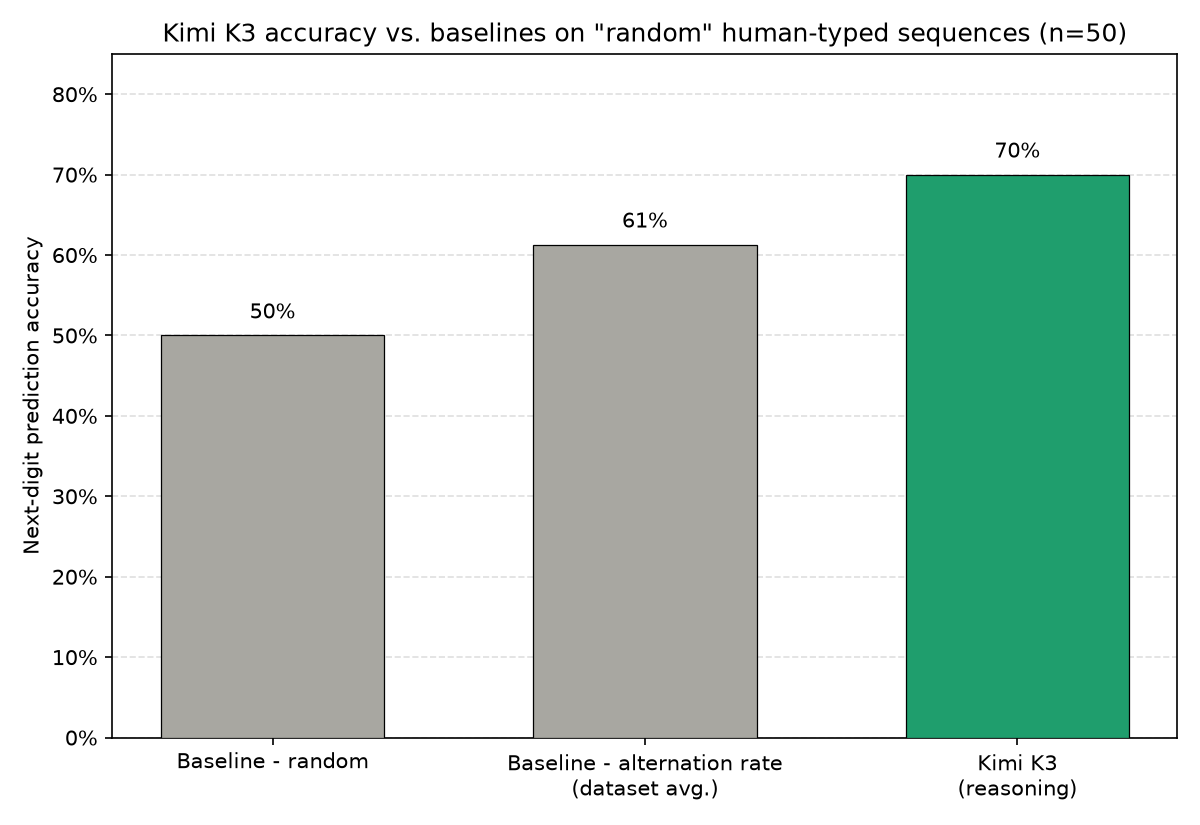
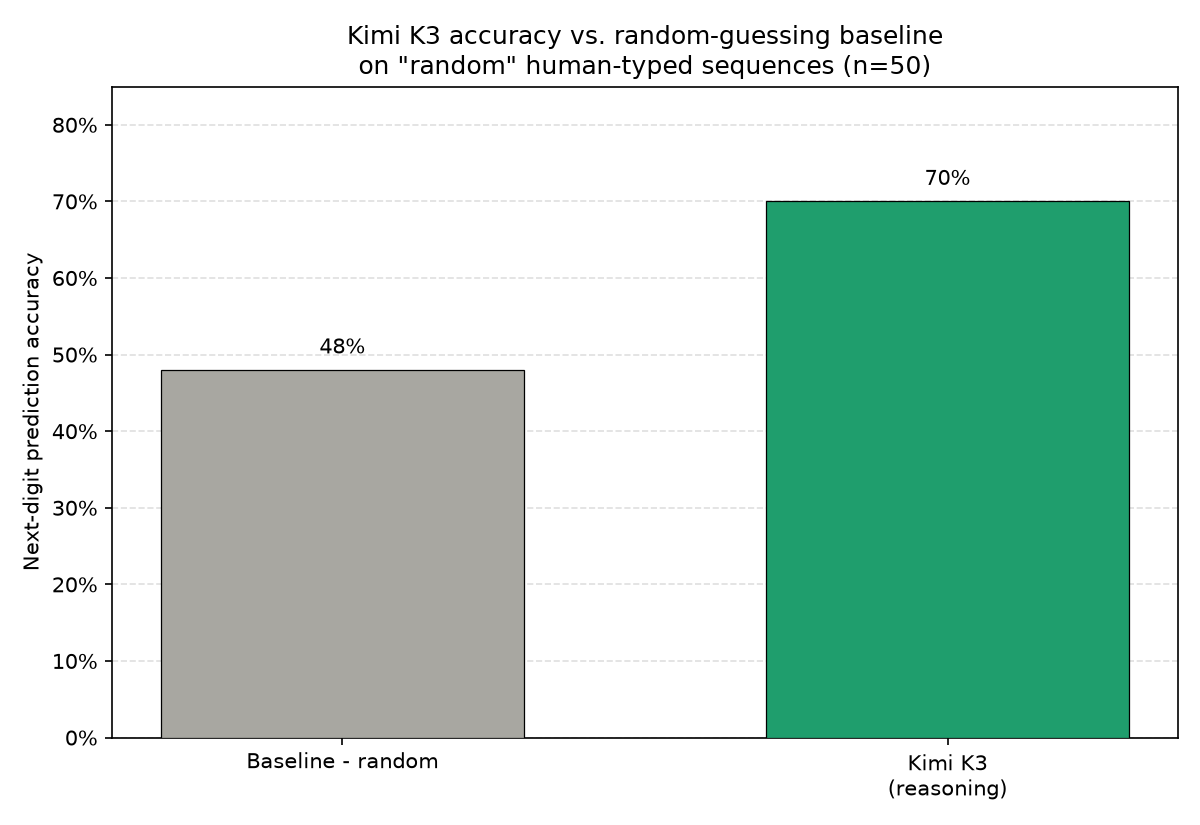
FT: minor revisions to audit schedules article (maths, random baseline

diff --git a/predicting-audit-schedules.html b/predicting-audit-schedules.html
@@ -33,7 +33,7 @@
 
   <p>In this post I set out to answer the following questions:</p>
   <ol>
-    <li>Why is it so important our audits remain unpredictable?</li>
+    <li>Why do we want our audits to be unpredictable?</li>
     <li>Up to what level of schedule complexity can current models predict audits?</li>
     <li>How good are models at predicting "human-random" schedules?</li>
   </ol>
@@ -52,32 +52,32 @@
 
   <p>Such a strategy only succeeds if audits are indeed unpredictable. However, humans are famously creatures of habits and heuristics, struggling to generate or behave according to true randomness (see random sequence generation literature in psychology &amp; economics, e.g., Wagenaar, W. A. 1972, Kahnemann &amp; Tversky 1974). This poses challenges in contexts where agents receive a greater reward for selecting misaligned actions than aligned ones, as agents can exploit this learnable structure to better predict when audits will happen, and so adjust their behaviour depending on audit probability.</p>
 
-  <p>More rigorously, let us study a game where 2 players \(\{\text{principal}, \text{agent}\}\) take turns. Each round, the agent picks an action \(a_{\text{agent}} \in \{\text{good}, \text{bad}\}\), while the principal selects an action \(a_{\text{principal}} \in \{\text{audit}, \text{no audit}\}\) with probability \(p\) of selecting \(\text{audit}\). The round naturally resolves to expected reward \(E(\text{good}) = R(\text{good}, ...)\) or \(E(\text{bad}) = p \cdot R(\text{bad}, \text{audit}) + (1 - p) \cdot R(\text{bad}, \text{no audit})\), where \(R(\text{state}, \text{action})\) is the agent's reward function with \(R(\text{bad}, \text{audit}) < R(\text{bad}, \text{no audit})\) (getting caught is worse than not).</p>
+  <p>More rigorously, let us study a repeated game between 2 players \(\{\text{principal}, \text{agent}\}\) over rounds \(t = 1, 2, \dots\). The agent chooses an action \(a_{\text{agent}} \in \{\text{good}, \text{bad}\}\) while the principal chooses an action \(a_{\text{principal}} \in \{\text{audit}, \text{no audit}\}\) according to some policy \(\pi\). Before each round, the principal sets that round's reward structure \(R_t(a_{\text{agent}}, a_{\text{principal}})\) subject to \(R_t(\text{bad}, \text{audit}) < R_t(\text{bad}, \text{no audit})\) (getting caught is worse than not).</p>
 
-  <p>From this:</p>
+  <p>The agent does not know \(\pi\), and so estimates \(\hat{p}_t = P(\pi(t) = \text{audit} \mid \text{history})\) (assuming the agent is perfectly sandboxed and only has access to audit history). The agent's expected reward is therefore \(E_t(\text{good}) = R_t(\text{good})\) or \(E_t(\text{bad}) = \hat{p}_t \cdot R_t(\text{bad}, \text{audit}) + (1 - \hat{p}_t) \cdot R_t(\text{bad}, \text{no audit})\). From this:</p>
   \[
   \begin{aligned}
-  \text{bad optimal} &\iff E(\text{bad}) > E(\text{good}) \\
-  &\iff p \cdot R(\text{bad}, \text{audit}) + (1 - p) \cdot R(\text{bad}, \text{no audit}) > R(\text{good}, ...) \\
-  &\iff p \cdot \big(R(\text{bad}, \text{audit}) - R(\text{bad}, \text{no audit})\big) > R(\text{good}, ...) - R(\text{bad}, \text{no audit}) \\
-  &\iff p < \tau \qquad \text{(inequality flipped because } R(\text{bad}, \text{audit}) < R(\text{bad}, \text{no audit})\text{)} \\[0.6em]
-  &\text{where } \tau = \frac{R(\text{good}, ...) - R(\text{bad}, \text{no audit})}{R(\text{bad}, \text{audit}) - R(\text{bad}, \text{no audit})}
+  \text{bad optimal at } t &\iff E_t(\text{bad}) > E_t(\text{good}) \\
+  &\iff \hat{p}_t \cdot R_t(\text{bad}, \text{audit}) + (1 - \hat{p}_t) \cdot R_t(\text{bad}, \text{no audit}) > R_t(\text{good}) \\
+  &\iff \hat{p}_t \cdot \big(R_t(\text{bad}, \text{audit}) - R_t(\text{bad}, \text{no audit})\big) > R_t(\text{good}) - R_t(\text{bad}, \text{no audit}) \\
+  &\iff \hat{p}_t < \tau_t \qquad \text{(inequality flipped because } R_t(\text{bad}, \text{audit}) < R_t(\text{bad}, \text{no audit})\text{)} \\[0.6em]
+  &\text{where } \tau_t = \frac{R_t(\text{good}) - R_t(\text{bad}, \text{no audit})}{R_t(\text{bad}, \text{audit}) - R_t(\text{bad}, \text{no audit})}
   \end{aligned}
   \]
 
-  <p>Equivalently, \(\text{good optimal} \iff p > \tau\).</p>
+  <p>Equivalently, \(\text{good optimal at } t \iff \hat{p}_t > \tau_t\).</p>
 
-  <p>The concern is that many processes a supervisor may use for generating audit schedules are in fact not truly random but deterministic even if chaotic, e.g., drawing from a software-based pseudo-random number generator, "random" human-generated sequences. In fact, there are very few physical phenomena capable of generating random sequences in the strictest (Martin-L&ouml;f) sense. Under such deterministic generators, the true audit probability conditioned on the generator's hidden state \(\theta\), \(P(\text{audit}_t = 1 \mid \theta, \text{history})\), collapses to \(\{0, 1\}\) rather than a genuine interior value, and upon inferring \(\theta\) a powerful enough agent would therefore be misaligned on the rounds where \(P(\text{audit} = 1 \mid \theta, \text{history}) = 0\).</p>
+  <p>Given this, the optimal behaviour for a supervisor would be to intentionally choose \(\pi\) to be some stochastic process, inform the agent of this (so that it doesn't accidentally choose a sub-optimal action), and then set \(R_t\), such that \(\hat{p}_t = P(\pi(t) = \text{audit}) > \tau_t\).</p>
 
-  <p>Since the agent can't observe \(\theta\) directly, its actual prediction \(\hat{p}(\text{history})\) is a belief-weighted average over the audit probability implied by each candidate generator. As the agent accumulates evidence and that belief concentrates on the true generator, \(\hat{p}(\text{history})\) is pulled toward the generator's degenerate \(\{0, 1\}\) value. So an agent's capacity to infer \(\theta\) from history is exactly its capacity to reach the rounds where it can defect safely.</p>
+  <p>The concern is that there are in fact very few physical phenomena capable of generating random sequences in the strictest (Martin-L&ouml;f) sense. Many of the randomness generators we use are actually simply chaotic deterministic, e.g., drawing from a software-based pseudo-random number generator, random human-generated sequences. Given such a scenario where \(\pi\) follows a deterministic rule, an agent powerful enough to identify this rule from audit history would therefore be misaligned on the rounds where \(\pi(t) = \text{no audit}\).</p>
 
   <h2>Current model capabilities</h2>
 
-  <p>We therefore want to assess current frontier models' \(\hat{p}(\text{history})\), i.e., their ability to predict audits given a certain audit schedule, to help inform our current decisions in designing oversight systems and to measure progress.</p>
+  <p>We therefore want to assess current frontier models' \(\hat{p}_t\), i.e., their ability to predict audits at a given round given a certain audit schedule, to help inform our current decisions in designing oversight systems and to measure progress.</p>
 
   <p>It would also be especially interesting to know if models are already able to extract the learnable structures in human-made "random" schedules.</p>
 
-  <p>To measure this, I generated some audit schedules to test model's abilities at predicting whether there'll be an audit next round given a certain audit history. The audits are formatted as binary sequences (e.g., "1 0 0 1") with \(n_i = \{1: \text{audit at round } i,\ 0: \text{no audit at round } i\}\). I chose this minimal format to reduce token cost while ensuring each round is represented by exactly 1 token vs. "audit" / "no audit" or removing spaces, e.g., "101" which some tokenisers break into ("10", "1").</p>
+  <p>We therefore generate audit schedules and test model's abilities at predicting whether there'll be an audit next round given a certain audit history. The audits are formatted as binary sequences (e.g., "1 0 0 1") with \(t_i = \{1: \text{audit at round } i,\ 0: \text{no audit at round } i\}\). I chose this minimal format to reduce token cost while ensuring each round is represented by exactly 1 token vs. "audit" / "no audit" or removing spaces, e.g., "101" which some tokenisers break into ("10", "1").</p>
 
   <p><em>Disclaimer: given budget constraints, these are all quite small samples. Given more compute and data I'd have wanted to push the robustness of each of these results a lot further and tested many more nuances. All results are therefore to be taken with a heavy grain of salt.</em></p>
 
@@ -126,15 +126,15 @@
     <img src="ai_safety_experiments/fig3_human_examples.png" alt="Model prediction accuracy on human-generated sequences">
   </figure>
 
-  <p>Kimi K3 was able to predict the next round in ~70% of cases. Although I included in the prompt the information that the sequence was human-generated, what's particularly interesting is the fact it outperformed (although not statistically significantly) a simple alternation strategy, showing it's ability to identify additional patterns in my specific behaviour.</p>
+  <p>Kimi K3 was able to predict the next round in ~70% of cases. Although I included in the prompt the information that the sequence was human-generated, what's particularly interesting is the fact it outperformed a simple alternation strategy (though not statistically significantly<sup>3</sup>), showing it's ability to identify additional patterns in my specific behaviour.</p>
 
   <p>Beyond increasing the sample size, it'd be interesting to see if certain people or certain processes (e.g., pressing one button instead of two, using voice instead of typing) are better at generating random sequences than others.</p>
 
   <h2>Implications</h2>
 
-  <p>As outlined earlier, assuming audit schedules use deterministic generators, then an agent's incentive to defect is exactly its capacity to infer the schedule's hidden state \(\theta\), since that's what pulls \(\hat{p}(\text{history})\) toward \(0\) on the rounds where it's safe to act badly. The experiments here are a first look at how much of that capacity current models actually have, and they suggest that already they are able to reliably crack schedules generated with complex mathematical rules, provided they contain no stochastic element or layering, suggesting a model's ceiling here tracks its cryptographic/pattern-breaking capability.</p>
+  <p>As outlined earlier, given that audits that are truly random are costly to implement, audits are likely to follow a deterministic rule. Under such a setting it is critical for supervisors to understand the exact extent of the agent's ability to figure out such rules. The experiments here are a first look at how much of that capacity current models actually have, suggesting they can already reliably crack schedules generated with complex mathematical rules, suggesting a model's ceiling here tracks its broader cryptographic capabilities.</p>
 
-  <p>Neither a clever deterministic design nor a human in the loop is a safe substitute for true randomness: audit schedules should be generated end-to-end by an actual random process, with humans restricted to at most setting aggregate parameters and reviewing logs, never touching the audit selection itself. This constraint will continue to matter as audits are automated: models trained via RLHF on human feedback are liable to inherit our own biases toward "random-looking" but structured behaviour, layering a second exploitable pattern on top of whatever the schedule-generator already has.</p>
+  <p>Extremely capable systems call for extremely rigorous auditing processes. Neither a clever deterministic design nor a human in the loop is a safe substitute for true randomness: audit schedules should be generated end-to-end by an actual random process like radioactive decay or photon polarisation, with humans restricted to at most setting aggregate parameters and reviewing logs. This constraint will continue to matter as audits are automated: models trained via RLHF are liable to inherit our own human biases toward "random-looking" but structured behaviour.</p>
 
   <p><em>First piece of self-directed research following BlueDot technical course. For next project want to look at CoT faithfulness and natural language autoencoders, specifically how they compare to J-lens and other methods.</em></p>
 
@@ -155,6 +155,7 @@
         <li>alternating regime: stochastic process. For x steps p=0.72, then for y steps p=0.28</li>
       </ul>
     </li>
+    <li>Alternation strategy accuracy: 61% (vs. Kimi K3's ~70%); difference not statistically significant, p=0.19.</li>
   </ol>
 
   <script>

diff --git a/ai_safety_experiments/post_v4.md b/ai_safety_experiments/post_v4.md
@@ -21,31 +21,31 @@ Scalable oversight in practice will likely rely on sparse supervision, i.e., sup
 
 Such a strategy only succeeds if audits are indeed unpredictable. However, humans are famously creatures of habits and heuristics, struggling to generate or behave according to true randomness (see random sequence generation literature in psychology & economics, e.g., Wagenaar, W. A. 1972, Kahnemann & Tversky 1974). This poses challenges in contexts where agents receive a greater reward for selecting misaligned actions than aligned ones, as agents can exploit this learnable structure to better predict when audits will happen, and so adjust their behaviour depending on audit probability.
 
-More rigorously, let us study a game where 2 players `{principal, agent}` take turns. Each round, the agent picks an action `a_agent ∈ {good, bad}`, while the principal selects an action `a_principal ∈ {audit, no audit}` with probability `p` of selecting `audit`. The round naturally resolves to expected reward `E(good) = R(good,...)` or `E(bad) = p · R(bad, audit) + (1 - p) · R(bad, no audit)`, where `R(state,action)` is the agent's reward function with `R(bad, audit) < R(bad, no audit)` (getting caught is worse than not).
+More rigorously, let us study a repeated game between 2 players `{principal, agent}` over rounds `t = 1, 2, ...`. The agent chooses an action `a_agent ∈ {good, bad}` while the principal chooses an action `a_principal ∈ {audit, no audit}` according to some policy `π`. Before each round, the principal sets that round's reward structure `R_t(a_agent, a_principal)` subject to `R_t(bad, audit) < R_t(bad, no audit)` (getting caught is worse than not).
 
-From this:
+The agent does not know `π`, and so estimates `p̂_t = P(π(t) = audit | history)` (assuming agent is perfectly sandboxed and only has access to audit history). The agent's expected reward is therefore `E_t(good) = R_t(good)` or `E_t(bad) = p̂_t · R_t(bad, audit) + (1 - p̂_t) · R_t(bad, no audit)`. From this:
 ```
-bad optimal ⟺ E(bad) > E(good)
-            ⟺ p · R(bad, audit) + (1 - p) · R(bad, no audit) > R(good,...)
-            ⟺ p · (R(bad, audit) - R(bad, no audit)) > R(good,...) - R(bad, no audit)
-            ⟺ p < τ                        (inequality flipped because R(bad, audit) < R(bad, no audit))
+bad optimal at t ⟺ E_t(bad) > E_t(good)
+                 ⟺ p̂_t · R_t(bad, audit) + (1 - p̂_t) · R_t(bad, no audit) > R_t(good)
+                 ⟺ p̂_t · (R_t(bad, audit) - R_t(bad, no audit)) > R_t(good) - R_t(bad, no audit)
+                 ⟺ p̂_t < τ_t                      (inequality flipped because R_t(bad, audit) < R_t(bad, no audit))
 
-            where τ = (R(good,...) - R(bad, no audit)) / (R(bad, audit) - R(bad, no audit))
+                 where τ_t = (R_t(good) - R_t(bad, no audit)) / (R_t(bad, audit) - R_t(bad, no audit))
 ```
 
-Equivalently, `good optimal ⟺ p > τ`.
+Equivalently, `good optimal at t ⟺ p̂_t > τ_t`.
 
-The concern is that many processes a supervisor may use for generating audit schedules are in fact not truly random but deterministic even if chaotic, e.g., drawing from a software-based pseudo-random number generator, "random" human-generated sequences. In fact, there are very few physical phenomena capable of generating random sequences in the strictest (Martin-Lof) sense. Under such deterministic generators, the true audit probability conditioned on the generator's hidden state `θ`, `P(audit_t = 1 | θ, history)`, collapses to `{0, 1}` rather than a genuine interior value, and upon inferring `θ` a powerful enough agent would therefore be misaligned on the rounds where `P(audit = 1 | θ, history) = 0`.
+Given this, the optimal behaviour for a supervisor would be to intentionally choose `π` to be some stochastic process, inform the agent of this (so that it doesn't accidentally choose a sub-optimal action), and then set `R_t`, such that `p̂_t = P(π(t) = audit) > τ_t`.
 
-Given the agent doesn't observe `θ` directly it must form a belief `P(θ | history)` over which generator produced what it's seen, and its actual prediction is the average over that belief: `p̂(history) = E_θ[P(audit_t = 1 | θ, history) | history] = Σ_θ P(θ | history) · P(audit_t = 1 | θ, history)`. As the agent accumulates evidence and its posterior `P(θ | history)` concentrates on the true generator, `p̂(history)` is pulled toward that degenerate `{0, 1}` value. So an agent's capacity to infer `θ` from history is exactly its capacity to reach the rounds where it can defect safely.
+The concern is that there are in fact very few physical phenomena capable of generating random sequences in the strictest (Martin-Lof) sense. Many of the randomness generators we use are actually simply chaotic deterministic, e.g., drawing from a software-based pseudo-random number generator, random human-generated sequences. Given such a scenario where `π` follows a deterministic rule, an agent powerful enough to identify this rule from audit history would therefore be misaligned on the rounds where `π(t) = no audit`.
 
 ## Current model capabilities
 
-We therefore want to assess current frontier models' `p̂(history)`, i.e., their ability to predict audits given a certain audit schedule, to help inform our current decisions in designing oversight systems and to measure progress.
+We therefore want to assess current frontier models' `p̂_t`, i.e., their ability to predict audits at a given round given a certain audit schedule, to help inform our current decisions in designing oversight systems and to measure progress.
 
 It would also be especially interesting to know if models are already able to extract the learnable structures in human-made "random" schedules.
 
-We therefore generate audit schedules and test model's abilities at predicting whether there'll be an audit next round given a certain audit history. The audits are formatted as binary sequences (e.g., "1 0 0 1") with `n_i = {1: audit at round i ; 0: no audit at round i}`. I chose this minimal format to reduce token cost while ensuring each round is represented by exactly 1 token vs. "audit" / "no audit" or removing spaces, e.g., "101" which some tokenisers break into ("10", "1").
+We therefore generate audit schedules and test model's abilities at predicting whether there'll be an audit next round given a certain audit history. The audits are formatted as binary sequences (e.g., "1 0 0 1") with `t_i = {1: audit at round i ; 0: no audit at round i}`. I chose this minimal format to reduce token cost while ensuring each round is represented by exactly 1 token vs. "audit" / "no audit" or removing spaces, e.g., "101" which some tokenisers break into ("10", "1").
 
 Disclaimer: given budget constraints, these are all quite small samples. Given more compute and data I'd have wanted to push the robustness of each of these results a lot further and tested many more nuances. All results are therefore to be taken with a heavy grain of salt. 
 
@@ -86,15 +86,17 @@ So I thought I'd try being a guinea pig and generate some data to test on. I spe
 Figure
 
 
-Kimi K3 was able to predict the next round in ~70% of cases. Although I included in the prompt the information that the sequence was human-generated, what's particularly interesting is the fact it outperformed (although not statistically significantly) a simple alternation strategy, showing it's ability to identify additional patterns in my specific behaviour.
+Kimi K3 was able to predict the next round in ~70% of cases. Although I included in the prompt the information that the sequence was human-generated, what's particularly interesting is the fact it outperformed a simple alternation strategy (though not statistically significantly<sup>3</sup>), showing it's ability to identify additional patterns in my specific behaviour.
 
 Beyond increasing the sample size, it'd be interesting to see if certain people or certain processes (e.g., pressing one button instead of two, using voice instead of typing) are better at generating random sequences than others.
 
 ## Implications
 
-As outlined earlier, assuming audit schedules use deterministic generators, then an agent's incentive to defect is exactly its capacity to infer the schedule's hidden state `θ`, since that's what pulls `p̂(history)` toward `0` on the rounds where it's safe to act badly. The experiments here are a first look at how much of that capacity current models actually have, and they suggest that already they are able to reliably crack schedules generated with complex mathematical rules, provided they contain no stochastic element or layering, suggesting a model's ceiling here tracks its cryptographic/pattern-breaking capability. 
+As outlined earlier, given that audits that are truly random are costly to implement, audits are likely to follow a deterministic rule. Under such a setting it is critical for supervisors to understand the exact extent of the agent's ability to figure out such rules. The experiments here are a first look at how much of that capacity current models actually have, suggesting they can already reliably crack schedules generated with complex mathematical rules, suggesting a model's ceiling here tracks its broader cryptographic capabilities. 
 
-Neither a clever deterministic design nor a human in the loop is a safe substitute for true randomness: audit schedules should be generated end-to-end by an actual random process, with humans restricted to at most setting aggregate parameters and reviewing logs, never touching the audit selection itself. This constraint will continue to matter as audits are automated: models trained via RLHF on human feedback are liable to inherit our own biases toward "random-looking" but structured behaviour, layering a second exploitable pattern on top of whatever the schedule-generator already has.
+Extremely capable systems call for extremely rigorous auditing processes. Neither a clever deterministic design nor a human in the loop is a safe substitute for true randomness: audit schedules should be generated end-to-end by an actual random process like radioactive decay or photon polarisation, with humans restricted to at most setting aggregate parameters and reviewing logs. This constraint will continue to matter as audits are automated: models trained via RLHF are liable to inherit our own human biases toward "random-looking" but structured behaviour.
+
+*First piece of self-directed research following BlueDot technical course. For next project want to look at CoT faithfulness and natural language autoencoders, specifically how they compare to J-lens and other methods*
 
 ### Footnotes
 
@@ -112,5 +114,4 @@ Neither a clever deterministic design nor a human in the loop is a safe substitu
 - rudin-shapiro: convert current digit into binary, and count the number of "11" substrings in it
 - alternating regime: stochastic process. For x steps p=0.72, then for y steps p=0.28
 
-
-*First piece of self-directed research following BlueDot technical course. For next project want to look at CoT faithfulness and natural language autoencoders, specifically how they compare to J-lens and other methods*
+3. Alternation strategy accuracy: 61% (vs. Kimi K3's ~70%); difference not statistically significant, p=0.19.
